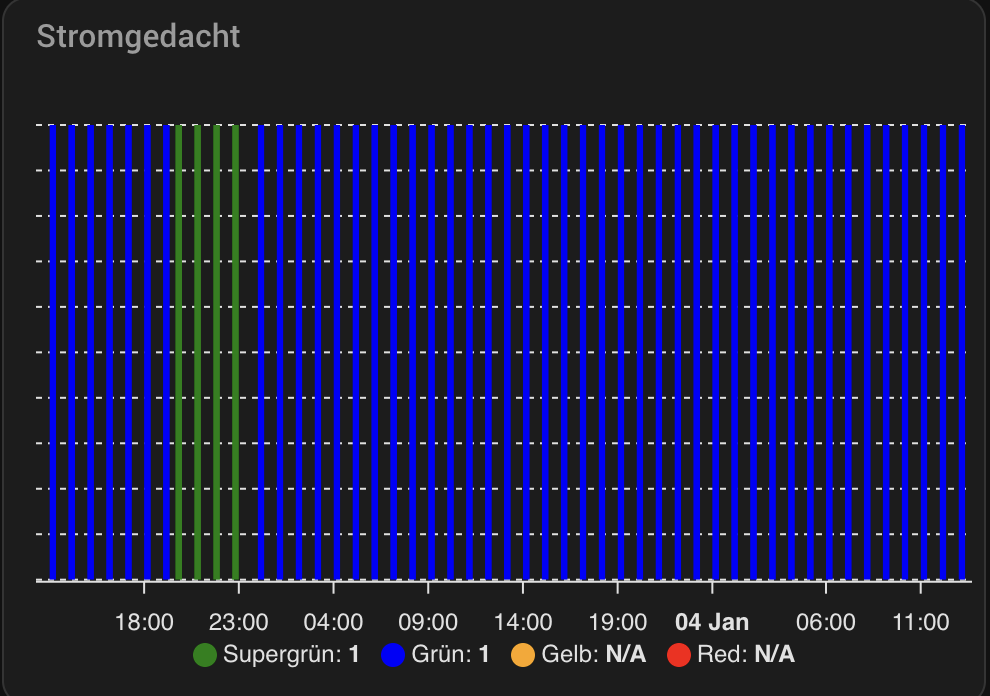
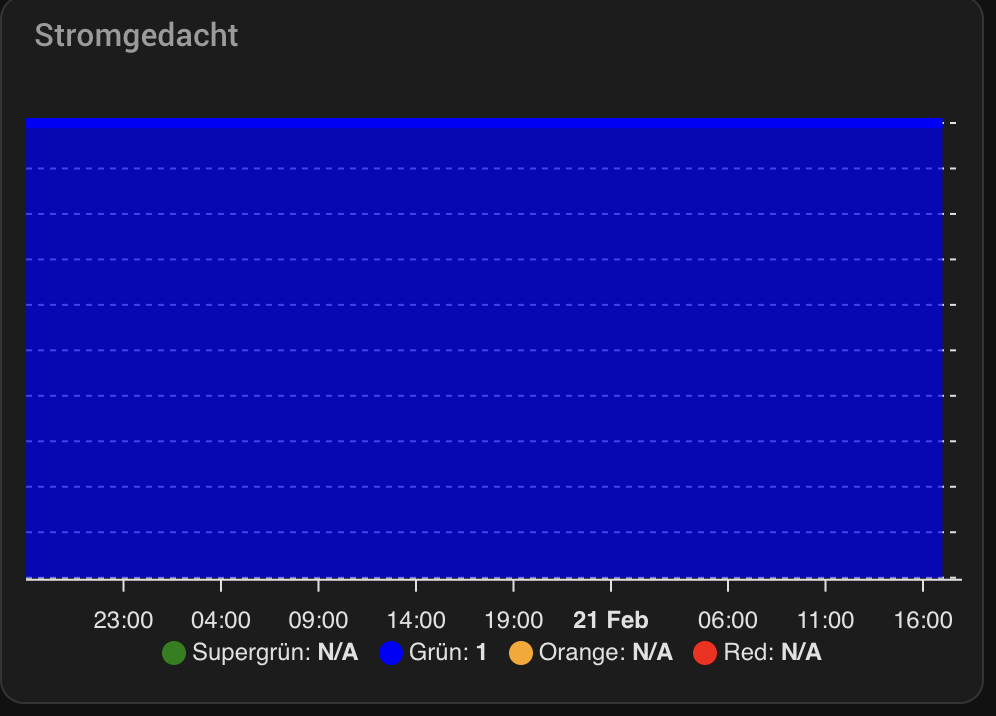
Using the official svg graphic from StromGedacht, TransnetBW GmbH fixing terminology bug of using orange instead of yellow

diff --git a/src/main.ts b/src/main.ts
@@ -22,7 +22,7 @@ interface State {
 enum StateEnum {
 	SUPERGRUEN = -1,
 	GRUEN = 1,
-	GELB = 2,
+	ORANGE = 2,
 	ROT = 3,
 }
 
@@ -31,7 +31,7 @@ const stromgedachtApi = "https://api.stromgedacht.de/v1/statesRelative";
 const statePaths = [
 	"forecast.states.supergruen",
 	"forecast.states.gruen",
-	"forecast.states.gelb",
+	"forecast.states.orange",
 	"forecast.states.rot",
 ];
 
@@ -204,14 +204,14 @@ class Stromgedacht extends utils.Adapter {
 						this.addToInfluxDB("forecast.state.gruen", timeslot.getTime(), 1);
 					}
 					break;
-				case StateEnum.GELB: //gelb
+				case StateEnum.ORANGE: //orange
 					gelbStates.push(state);
 					for (let i = 0; i < timeDifference; i++) {
 						const newTime = (state.from = new Date(state.from)).getTime() + i * 60 * 60 * 1000 - offSet;
 						const timeslot = new Date(newTime);
 						gelbTimeseries.push([timeslot, 1]);
-						//at this point we can push the specific yellow data to influxdb
-						this.addToInfluxDB("forecast.state.gelb", timeslot.getTime(), 1);
+						//at this point we can push the specific orange data to influxdb
+						this.addToInfluxDB("forecast.state.orange", timeslot.getTime(), 1);
 					}
 					break;
 				case StateEnum.ROT: //rot
@@ -242,7 +242,7 @@ class Stromgedacht extends utils.Adapter {
 		this.setStateAsync("forecast.states.timeseries", JSON.stringify(timeseries), true);
 		this.setForecastStates(supergruenStates, "forecast.states.supergruen", supergruenTimeseries);
 		this.setForecastStates(gruenStates, "forecast.states.gruen", gruenTimeseries);
-		this.setForecastStates(gelbStates, "forecast.states.gelb", gelbTimeseries);
+		this.setForecastStates(gelbStates, "forecast.states.orange", gelbTimeseries);
 		this.setForecastStates(rotStates, "forecast.states.rot", rotTimeseries);
 		this.setStateAsync("forecast.states.lastUpdated", new Date().toString(), true);
 	}

diff --git a/README.md b/README.md
@@ -1,4 +1,5 @@
-![Logo](admin/stromgedacht.png)
+![Logo](admin/stromgedacht_appicon.svg)
+![Logo](admin/StromGedacht-Horizontal_white_Footer.svg)
 
 # ioBroker.stromgedacht
 
@@ -13,7 +14,11 @@
 
 ## stromgedacht adapter for ioBroker
 
-Reads the values from Strom Gedacht API. It could be used to check if there is more green energy in the system, so intensive consumers could be used
+Reads the values from Strom Gedacht API provided by „StromGedacht, TransnetBW GmbH“. It could be used to check if there is more green energy in the system, so intensive consumers could be used
+
+## Disclaimer
+
+The API used by this adapter is provided by „StromGedacht, TransnetBW GmbH“. Images of Stromgedacht do belong to „StromGedacht, TransnetBW GmbH“.
 
 ## Settings
 
@@ -25,14 +30,15 @@ this adapter needs just two settings.
 
 ## How to use?
 
-Right now the data is available in two forms. 
+Right now the data is available in two forms.
 
 ### Available as _to_ and _from_
-For each Stromgedacht State there is a State available in the Object tree. These state objects hava a begin and end Timestamp: 
+
+For each Stromgedacht State there is a State available in the Object tree. These state objects hava a begin and end Timestamp:
 
 ![ObjectTree](stromgedacht_tree.png)
 
-These timestamps can be used for using in your own scriptings. 
+These timestamps can be used for using in your own scriptings.
 
 For visualization there is now also a timeseries state object for the complete forecast and also for each different state.
 
@@ -41,44 +47,45 @@ These timesamps can be used in a visualization. For example using the [Apex-Char
 ![Visualization](stromgedacht_visual.png)
 
 the following config can be use:
+
 ```yaml
 type: custom:apexcharts-card
 graph_span: 2d
 span:
-  start: hour
+    start: hour
 header:
-  show: true
-  title: Stromgedacht
-  show_states: false
-  colorize_states: true
+    show: true
+    title: Stromgedacht
+    show_states: false
+    colorize_states: true
 yaxis:
-  - show: false
-    min: 0
+    - show: false
+      min: 0
 series:
-  - entity: sensor.forecast_states_supergruen_timeseries
-    name: Supergrün
-    type: column
-    color: green
-    data_generator: |
-      return JSON.parse(entity.state);
-  - entity: sensor.forecast_states_gruen_timeseries
-    name: Grün
-    type: column
-    color: blue
-    data_generator: |
-      return JSON.parse(entity.state);
-  - entity: sensor.forecast_states_gelb_timeseries
-    name: Gelb
-    type: column
-    color: orange
-    data_generator: |
-      return JSON.parse(entity.state);
-  - entity: sensor.forecast_states_rot_timeseries
-    name: Red
-    type: column
-    color: red
-    data_generator: |
-      return JSON.parse(entity.state);
+    - entity: sensor.forecast_states_supergruen_timeseries
+      name: Supergrün
+      type: column
+      color: green
+      data_generator: |
+          return JSON.parse(entity.state);
+    - entity: sensor.forecast_states_gruen_timeseries
+      name: Grün
+      type: column
+      color: blue
+      data_generator: |
+          return JSON.parse(entity.state);
+    - entity: sensor.forecast_states_orange_timeseries
+      name: Orange
+      type: column
+      color: orange
+      data_generator: |
+          return JSON.parse(entity.state);
+    - entity: sensor.forecast_states_rot_timeseries
+      name: Rot
+      type: column
+      color: red
+      data_generator: |
+          return JSON.parse(entity.state);
 ```
 
 ## Developer manual
@@ -141,18 +148,26 @@ The ioBroker.admin interface will then be available at http://localhost:8081/
 Please refer to the [`dev-server` documentation](https://github.com/ioBroker/dev-server#command-line) for more details.
 
 ## Changelog
+
+### **WORK IN PROGRESS**
+
+-   using the official logo with thanks to „StromGedacht, TransnetBW GmbH“
+-   terminology bugfix: instead of yellow use orange, yellow was removed from underlying API
+
 ### 0.2.0 (2024-01-05)
-- timeseries are now also logged to InfluxDB-Adapter, if configured.
+
+-   timeseries are now also logged to InfluxDB-Adapter, if configured.
 
 ### 0.1.1 (2024-01-05)
 
-- trying to make sure the adapter is restarted every hour
+-   trying to make sure the adapter is restarted every hour
 
 ### 0.1.0 (2024-01-03)
-- code cleanup
-- adding timeseries
-- adding sample to readme about how to visualize
-- itests now functional
+
+-   code cleanup
+-   adding timeseries
+-   adding sample to readme about how to visualize
+-   itests now functional
 
 ### 0.0.6 (2023-12-30)
 
